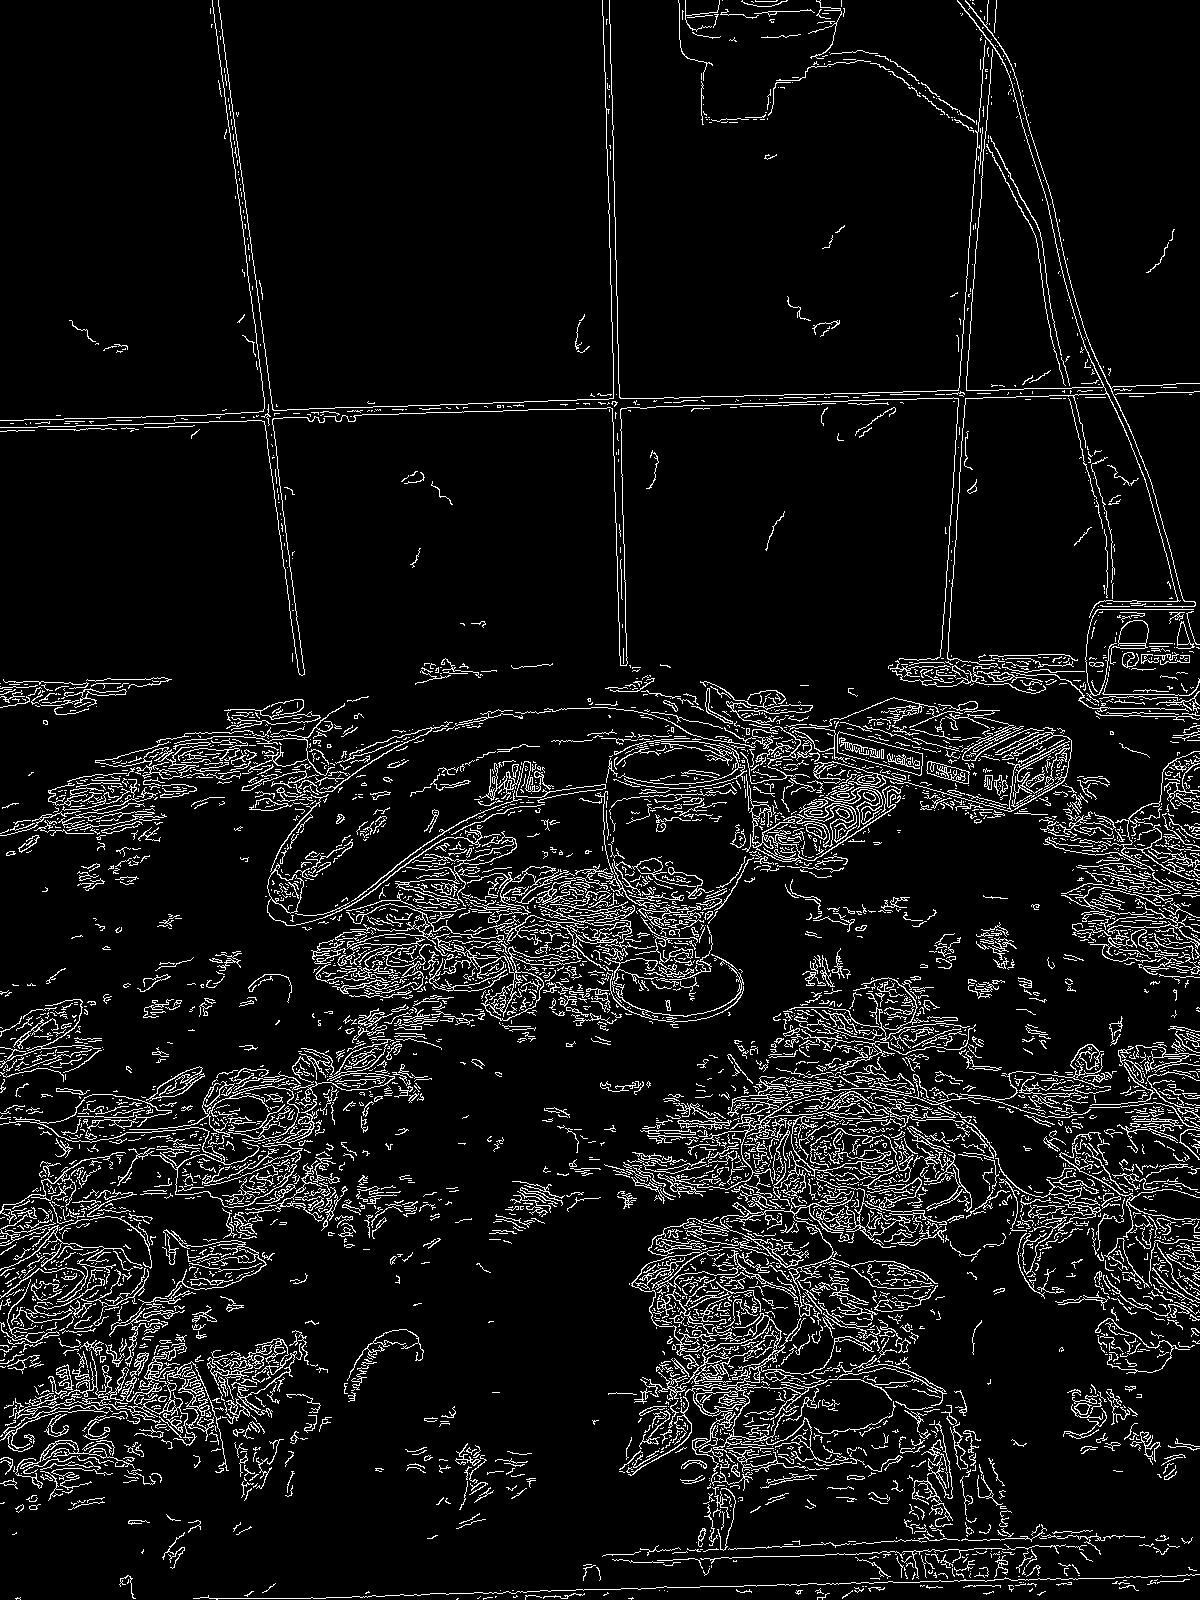
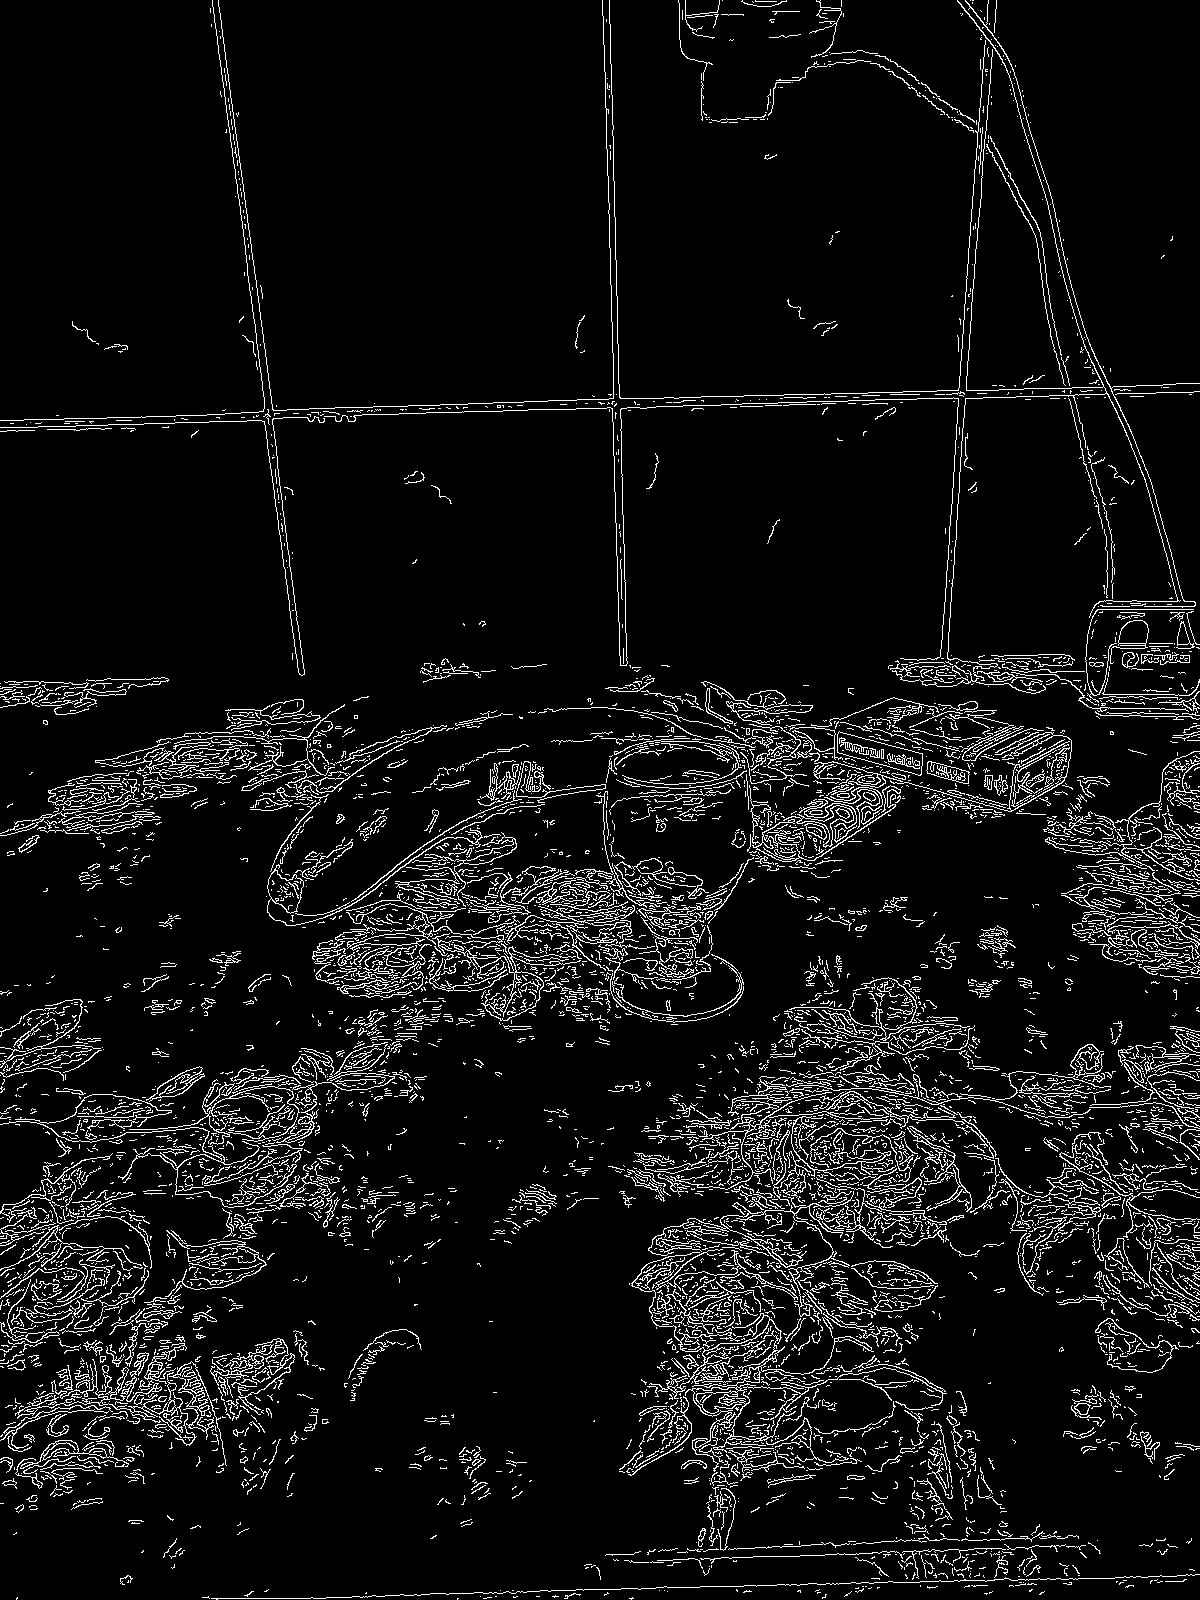
adding input + tring to run the algorithm of structured edge detection

diff --git a/main.py b/main.py
@@ -3,45 +3,50 @@ from PIL import Image
 import cv2
 import sys
 import numpy
-from scipy import ndimage
-
-def edge_detection(matrix):
-	# kernel used is:
-	# kernel = [[-1, -1, -1], [-1, 8, -1], [-1, -1, -1]]
-
-	n, m = gray.shape
-
-	print(m)
-	print(n)
-
-	edge = numpy.zeros((n, m))
-
-	for i in range(0, n):
-		for j in range(0, m):
-			if j == 0:
-				edge[i, j] = 8 * matrix[i, j] - matrix[i, (j+1)]
-			elif j == m - 1:
-				edge[i, j] = - matrix[i, (j-1)] + 8 * matrix[i, j]
-			elif j > 0 and j < m - 1:
-				edge[i, j] = - matrix[i, (j-1)] + 8 * matrix[i, j] - matrix[i, (j+1)]
-
-	A = numpy.squeeze(numpy.asarray(edge))
-	img = Image.fromarray(A, 'L')
-	img.save('my.png')
-
 
 print(sys.argv[0]);
 
-# read the image
-img = cv2.imread(sys.argv[1])
+def canny():
+	# read the image
+	img = cv2.imread(sys.argv[1])
 
-# conver to gray scale
-gray = cv2.cvtColor(img, cv2.COLOR_BGR2GRAY)
+	# conver to gray scale
+	gray = cv2.cvtColor(img, cv2.COLOR_BGR2GRAY)
 
-# we found on of the best algorithms to detect the edges named: Canny
-# documentation: https://docs.opencv.org/3.1.0/da/d22/tutorial_py_canny.html
-edges = cv2.Canny(gray,25,50)
+	# we found on of the best algorithms to detect the edges named: Canny
+	# documentation: https://docs.opencv.org/3.1.0/da/d22/tutorial_py_canny.html
+	edges = cv2.Canny(gray, 35, 50)
 
-A = numpy.squeeze(numpy.asarray(edges))
-img = Image.fromarray(A, 'L')
-img.save(sys.argv[2])
+def print_image(edges):
+	# print the image
+	A = numpy.squeeze(numpy.asarray(edges))
+	img = Image.fromarray(A)
+	img.save(sys.argv[2])
+
+
+def edgeDetection():
+	# structured forests and fast edge detection
+
+	# 1. Load source color image
+	img = cv2.imread(sys.argv[1])
+
+	# 2. Convert source image to [0;1] range
+	gray = numpy.divide(img, 255)
+
+	print_image(gray)
+
+	# 3. Run main algorithm
+	# cv::Mat edges(image.size(), image.type());
+	# cv::Ptr<StructuredEdgeDetection> pDollar =
+	#     cv::createStructuredEdgeDetection(modelFilename);
+	# pDollar->detectEdges(image, edges);
+	# 4. Show results
+	# if ( outFilename == "" )
+	# {
+	#     cv::namedWindow("edges", 1);
+	#     cv::imshow("edges", edges);
+	#     cv::waitKey(0);
+	# }
+	# else     cv::imwrite(outFilename, 255*edges)
+
+edgeDetection()

diff --git a/README.md b/README.md
@@ -11,3 +11,34 @@ Need to install:
 sudo apt install python-pip
 pip install opencv-python
 
+Canny edge detector
+https://towardsdatascience.com/canny-edge-detection-step-by-step-in-python-computer-vision-b49c3a2d8123
+1. Noise reduction;
+2. Gradient calculation;
+3. Non-maximum suppression;
+4. Double threshold;
+5. Edge Tracking by Hysteresis.
+
+
+Structured forests for fast edge detection
+https://docs.opencv.org/3.4/d0/da5/tutorial_ximgproc_prediction.html
+
+1. Load source color image
+2. Convert source image to [0;1] range
+3. Run main algorithm
+cv::Mat edges(image.size(), image.type());
+cv::Ptr<StructuredEdgeDetection> pDollar =
+    cv::createStructuredEdgeDetection(modelFilename);
+pDollar->detectEdges(image, edges);
+4. Show results
+if ( outFilename == "" )
+{
+    cv::namedWindow("edges", 1);
+    cv::imshow("edges", edges);
+    cv::waitKey(0);
+}
+else     cv::imwrite(outFilename, 255*edges)
+
+
+Structured forests
+https://github.com/ArtanisCV/StructuredForests
